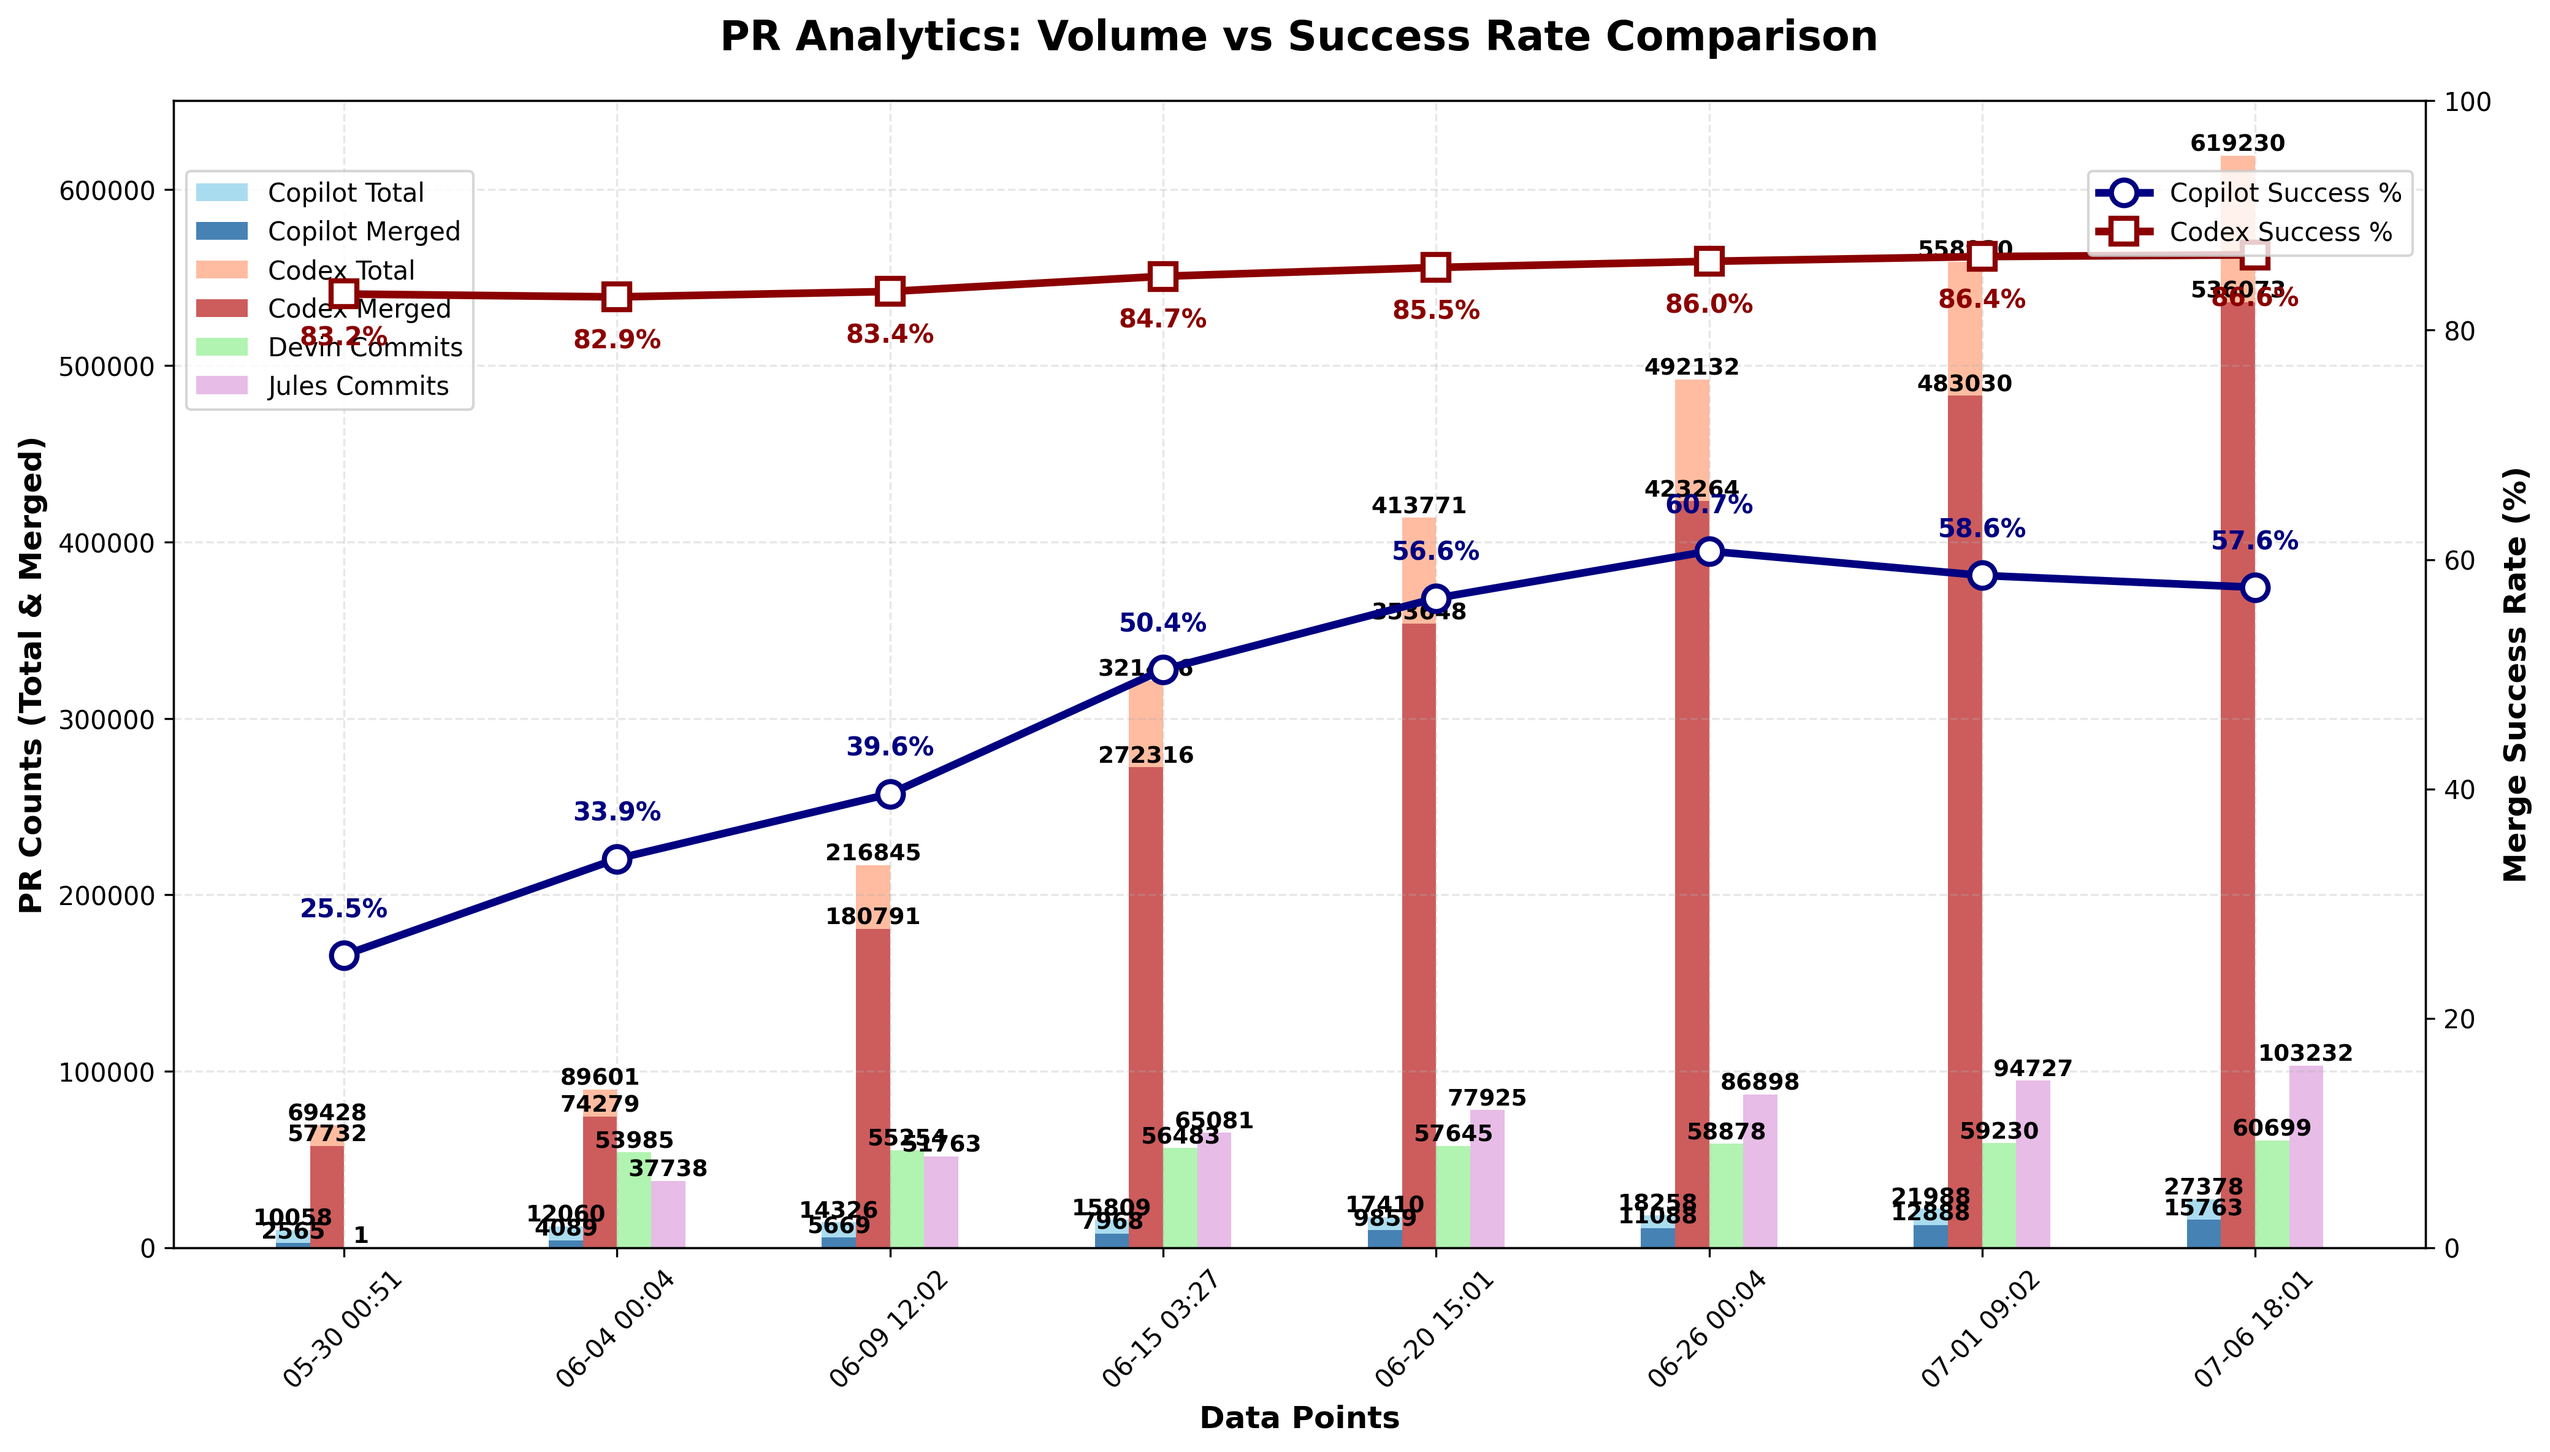
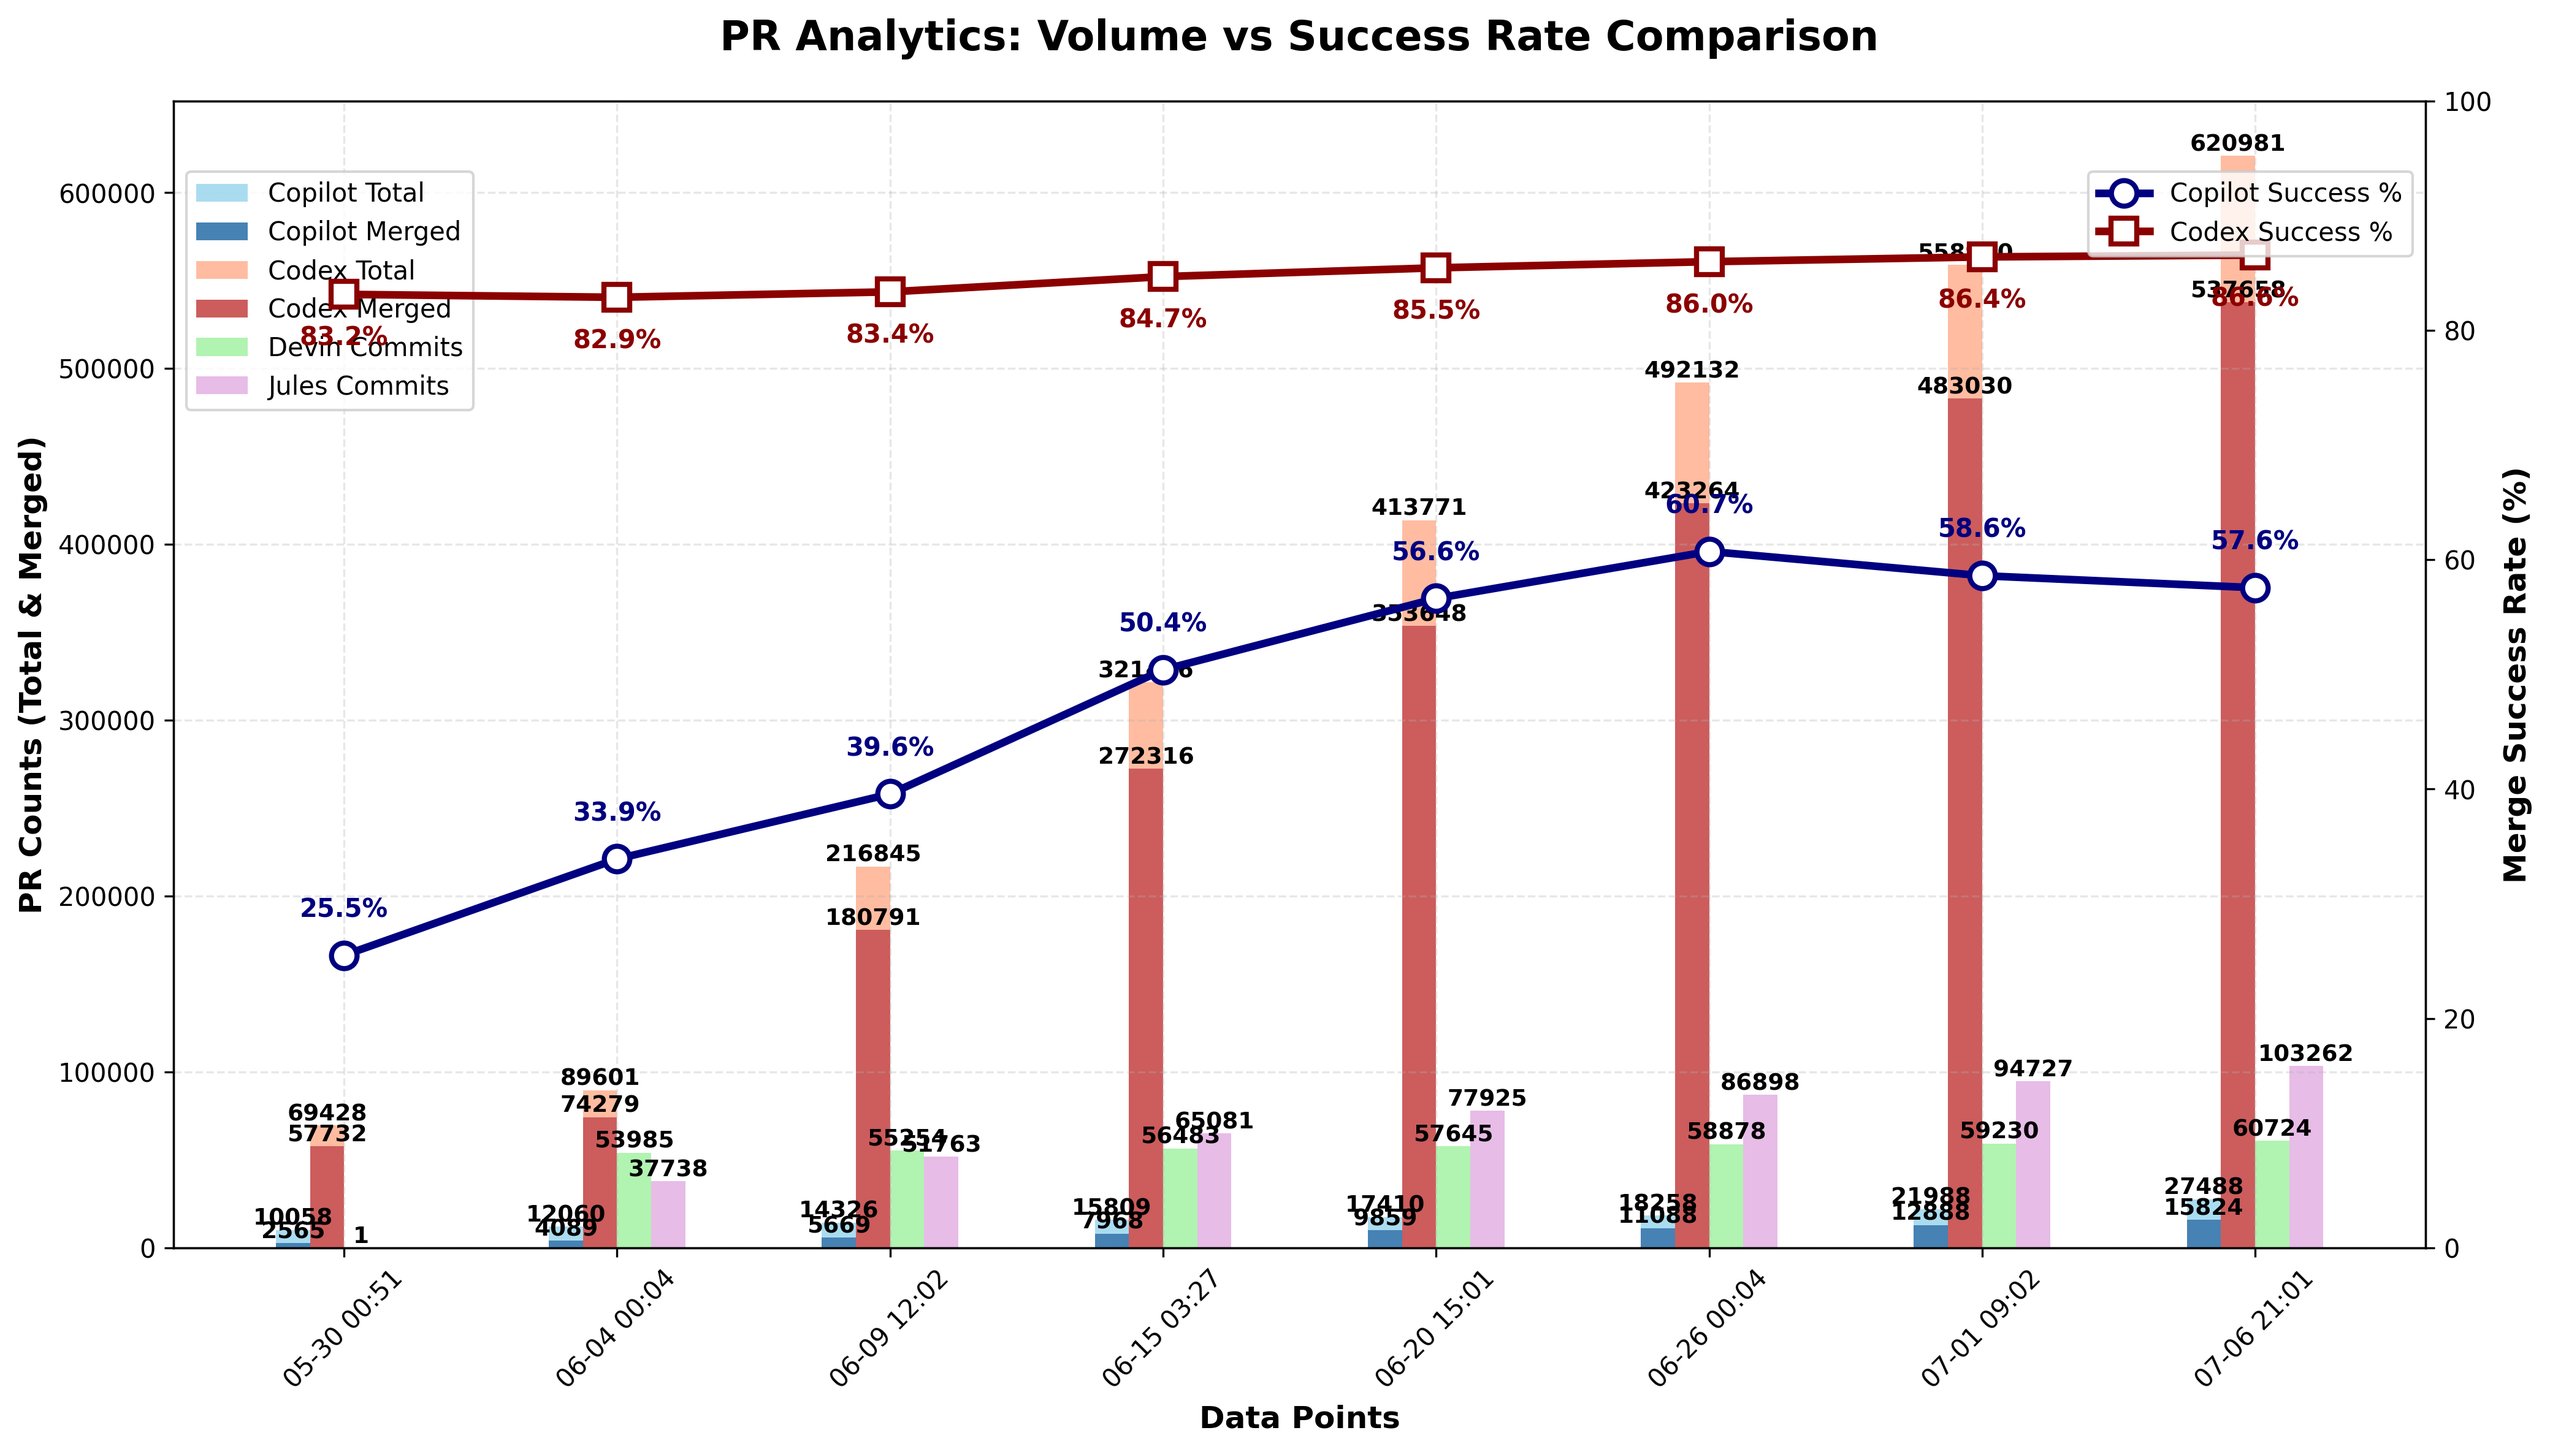
chore: update PR‑approval chart

diff --git a/docs/index.html b/docs/index.html
@@ -349,6 +349,7 @@
                         <td>N/A</td>
                         <td>N/A</td>
                         <td>N/A</td>
+                        <td>N/A</td>
                     </tr>
                     <tr>
                         <td>Codex</td>
@@ -656,27 +657,28 @@
                         <td>N/A</td>
                         <td>N/A</td>
                         <td>N/A</td>
+                        <td>N/A</td>
                     </tr>
                 <tr>
                         <td>Devin</td>
                         <td>N/A</td>
                         <td>N/A</td>
                         <td>N/A</td>
-                        <td>60,699</td>
+                        <td>60,724</td>
                     </tr>
                     <tr>
                         <td>Jules</td>
                         <td>N/A</td>
                         <td>N/A</td>
                         <td>N/A</td>
-                        <td>103,232</td>
+                        <td>103,262</td>
                     </tr>
                     </tbody>
             </table>
         </section>
 
         <footer>
-            <p>Last updated: <span id="last-updated">July 06, 2025 18:01 UTC</span></p>
+            <p>Last updated: <span id="last-updated">July 06, 2025 21:01 UTC</span></p>
             <p><a href="https://github.com/aavetis/ai-pr-watcher">View on GitHub</a></p>
         </footer>
     </div>

diff --git a/README.md b/README.md
@@ -19,7 +19,7 @@ Explore the GitHub search queries used:
 
 | Service | Total PRs | Merged PRs | Merge Rate | Total Commits |
 | ------- | --------- | ---------- | ---------- | ------------- |
-| Copilot | 27,378 | 15,763 | 57.58% | N/A           |
-| Codex   | 619,230 | 536,073 | 86.57% | N/A           |
-| Devin   | N/A       | N/A        | N/A        | 60,699 |
-| Jules   | N/A       | N/A        | N/A        | 103,232 |
+| Copilot | 27,488 | 15,824 | 57.57% | N/A           |
+| Codex   | 620,981 | 537,658 | 86.58% | N/A           |
+| Devin   | N/A       | N/A        | N/A        | 60,724 |
+| Jules   | N/A       | N/A        | N/A        | 103,262 |
